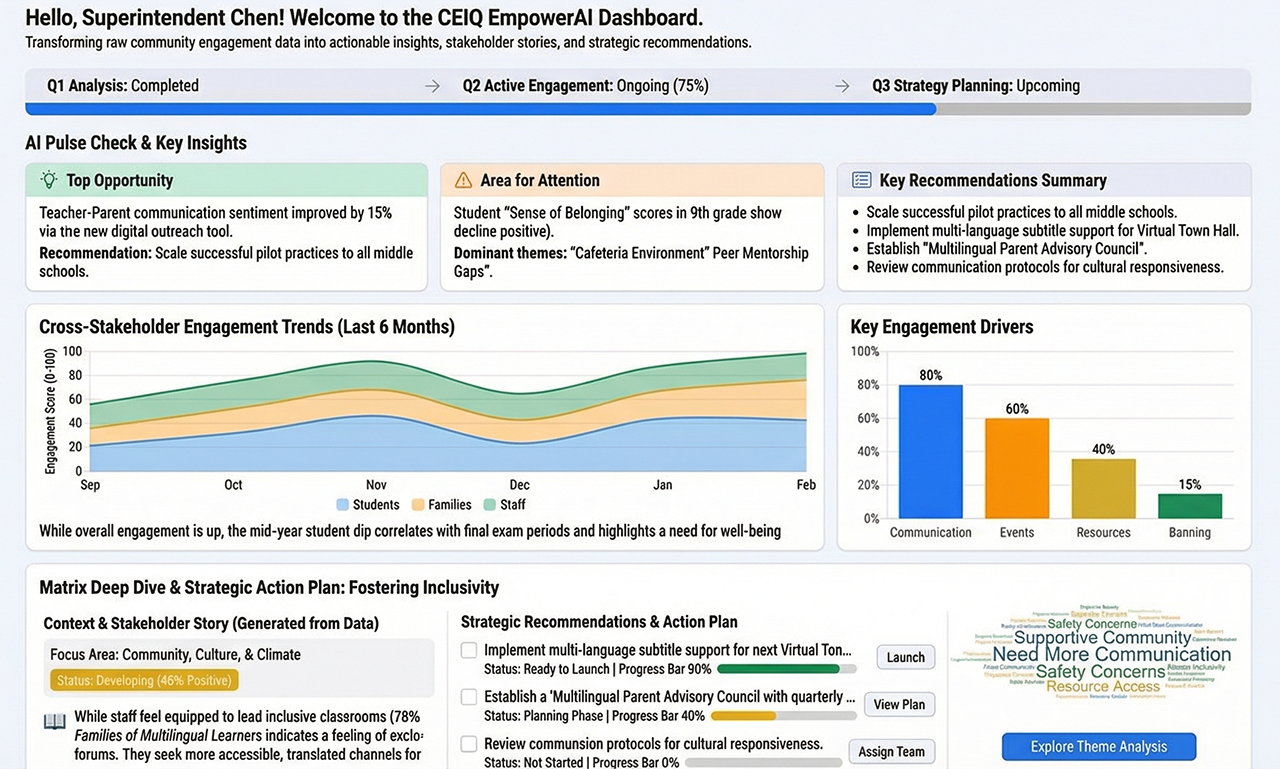
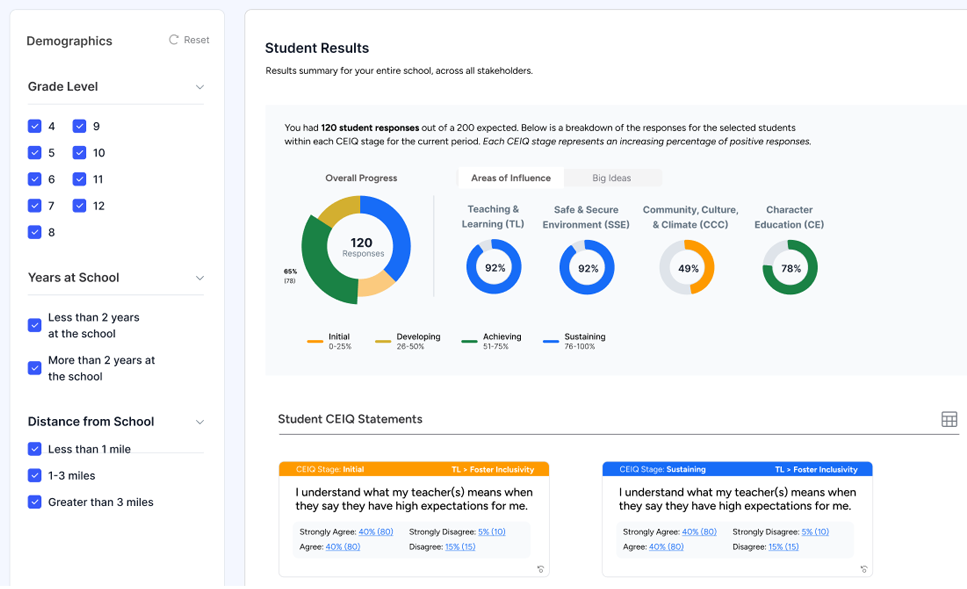
new empowerai slide

diff --git a/resources/views/pages/home.blade.php b/resources/views/pages/home.blade.php
@@ -335,8 +335,71 @@ Main marketing page for CEIQ.
         </div>
     </section>
 
+
+    {{-- Values Section --}}
+    <section class="about-section alt-bg" id="values">
+        <div class="container">
+            <div class="section-header">
+                <p class="subtitle">Our Values</p>
+                <h2>What Drives Us</h2>
+                <p>
+                    These principles guide everything we build and every partnership we form.
+                </p>
+            </div>
+            <div class="values-grid">
+                <x-value-card title="Data-Driven Decisions" icon-class="value-icon-1">
+                    <x-slot:icon>
+                        <svg xmlns="http://www.w3.org/2000/svg" width="24" height="24" viewBox="0 0 24 24" fill="none" stroke="white" stroke-width="2" stroke-linecap="round" stroke-linejoin="round">
+                            <path d="M3 3v18h18"/>
+                            <path d="m19 9-5 5-4-4-3 3"/>
+                        </svg>
+                    </x-slot:icon>
+                    We believe intuition should be validated by evidence. Our platform transforms abstract
+                    engagement into trackable metrics that inform strategic choices.
+                </x-value-card>
+
+                <x-value-card title="Community Empowerment" icon-class="value-icon-2">
+                    <x-slot:icon>
+                        <svg xmlns="http://www.w3.org/2000/svg" width="24" height="24" viewBox="0 0 24 24" fill="none" stroke="white" stroke-width="2" stroke-linecap="round" stroke-linejoin="round">
+                            <path d="M16 21v-2a4 4 0 0 0-4-4H6a4 4 0 0 0-4 4v2"/>
+                            <circle cx="9" cy="7" r="4"/>
+                            <path d="M22 21v-2a4 4 0 0 0-3-3.87"/>
+                            <path d="M16 3.13a4 4 0 0 1 0 7.75"/>
+                        </svg>
+                    </x-slot:icon>
+                    Strong schools are built on strong communities. We equip all stakeholders—educators,
+                    families, and partners—with tools to drive meaningful change.
+                </x-value-card>
+
+                <x-value-card title="Measurable Impact" icon-class="value-icon-3">
+                    <x-slot:icon>
+                        <svg xmlns="http://www.w3.org/2000/svg" width="24" height="24" viewBox="0 0 24 24" fill="none" stroke="white" stroke-width="2" stroke-linecap="round" stroke-linejoin="round">
+                            <path d="M12 20V10"/>
+                            <path d="M18 20V4"/>
+                            <path d="M6 20v-4"/>
+                        </svg>
+                    </x-slot:icon>
+                    Every engagement activity should connect to student outcomes. We help you correlate
+                    community actions with attendance, retention, and academic achievement.
+                </x-value-card>
+
+                <x-value-card title="Collective Intelligence" icon-class="value-icon-4">
+                    <x-slot:icon>
+                        <svg xmlns="http://www.w3.org/2000/svg" width="24" height="24" viewBox="0 0 24 24" fill="none" stroke="white" stroke-width="2" stroke-linecap="round" stroke-linejoin="round">
+                            <circle cx="12" cy="12" r="10"/>
+                            <path d="M12 2a14.5 14.5 0 0 0 0 20 14.5 14.5 0 0 0 0-20"/>
+                            <path d="M2 12h20"/>
+                        </svg>
+                    </x-slot:icon>
+                    The best solutions emerge when diverse expertise comes together. CEIQ unites educators,
+                    technologists, and community experts to surface insights no single perspective could find.
+                </x-value-card>
+            </div>
+        </div>
+    </section>
+
     {{-- Resources Section --}}
-    {{-- <section class="resources" id="weekly-resources">
+    <section class="resources" id="weekly-resources">
         <div class="container">
             <div class="section-header">
                 <p class="subtitle">Resources</p>
@@ -449,69 +512,8 @@ Main marketing page for CEIQ.
                 </div>
             </div>
         </div>
-    </section> --}}
-
-    {{-- Values Section --}}
-    <section class="about-section alt-bg" id="values">
-        <div class="container">
-            <div class="section-header">
-                <p class="subtitle">Our Values</p>
-                <h2>What Drives Us</h2>
-                <p>
-                    These principles guide everything we build and every partnership we form.
-                </p>
-            </div>
-            <div class="values-grid">
-                <x-value-card title="Data-Driven Decisions" icon-class="value-icon-1">
-                    <x-slot:icon>
-                        <svg xmlns="http://www.w3.org/2000/svg" width="24" height="24" viewBox="0 0 24 24" fill="none" stroke="white" stroke-width="2" stroke-linecap="round" stroke-linejoin="round">
-                            <path d="M3 3v18h18"/>
-                            <path d="m19 9-5 5-4-4-3 3"/>
-                        </svg>
-                    </x-slot:icon>
-                    We believe intuition should be validated by evidence. Our platform transforms abstract
-                    engagement into trackable metrics that inform strategic choices.
-                </x-value-card>
-
-                <x-value-card title="Community Empowerment" icon-class="value-icon-2">
-                    <x-slot:icon>
-                        <svg xmlns="http://www.w3.org/2000/svg" width="24" height="24" viewBox="0 0 24 24" fill="none" stroke="white" stroke-width="2" stroke-linecap="round" stroke-linejoin="round">
-                            <path d="M16 21v-2a4 4 0 0 0-4-4H6a4 4 0 0 0-4 4v2"/>
-                            <circle cx="9" cy="7" r="4"/>
-                            <path d="M22 21v-2a4 4 0 0 0-3-3.87"/>
-                            <path d="M16 3.13a4 4 0 0 1 0 7.75"/>
-                        </svg>
-                    </x-slot:icon>
-                    Strong schools are built on strong communities. We equip all stakeholders—educators,
-                    families, and partners—with tools to drive meaningful change.
-                </x-value-card>
-
-                <x-value-card title="Measurable Impact" icon-class="value-icon-3">
-                    <x-slot:icon>
-                        <svg xmlns="http://www.w3.org/2000/svg" width="24" height="24" viewBox="0 0 24 24" fill="none" stroke="white" stroke-width="2" stroke-linecap="round" stroke-linejoin="round">
-                            <path d="M12 20V10"/>
-                            <path d="M18 20V4"/>
-                            <path d="M6 20v-4"/>
-                        </svg>
-                    </x-slot:icon>
-                    Every engagement activity should connect to student outcomes. We help you correlate
-                    community actions with attendance, retention, and academic achievement.
-                </x-value-card>
-
-                <x-value-card title="Collective Intelligence" icon-class="value-icon-4">
-                    <x-slot:icon>
-                        <svg xmlns="http://www.w3.org/2000/svg" width="24" height="24" viewBox="0 0 24 24" fill="none" stroke="white" stroke-width="2" stroke-linecap="round" stroke-linejoin="round">
-                            <circle cx="12" cy="12" r="10"/>
-                            <path d="M12 2a14.5 14.5 0 0 0 0 20 14.5 14.5 0 0 0 0-20"/>
-                            <path d="M2 12h20"/>
-                        </svg>
-                    </x-slot:icon>
-                    The best solutions emerge when diverse expertise comes together. CEIQ unites educators,
-                    technologists, and community experts to surface insights no single perspective could find.
-                </x-value-card>
-            </div>
-        </div>
     </section>
+
 
     {{-- CTA Section --}}
     <x-cta-section
